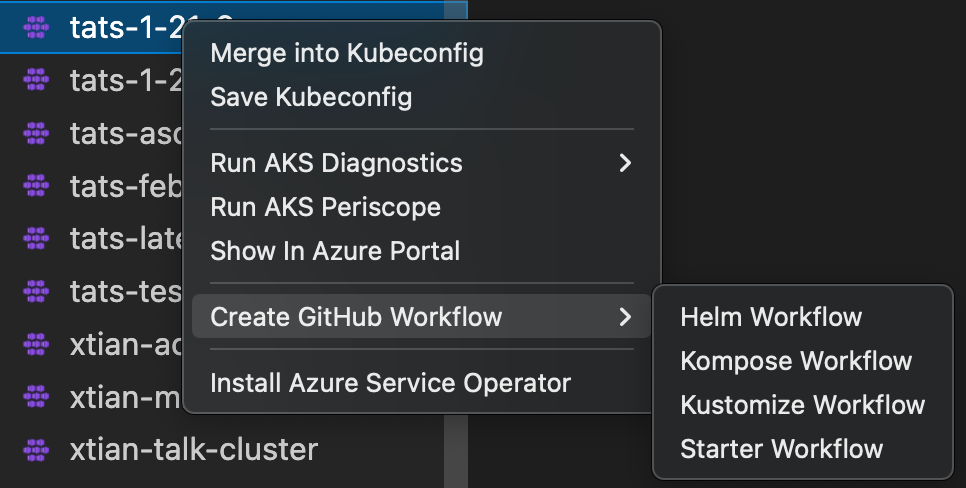
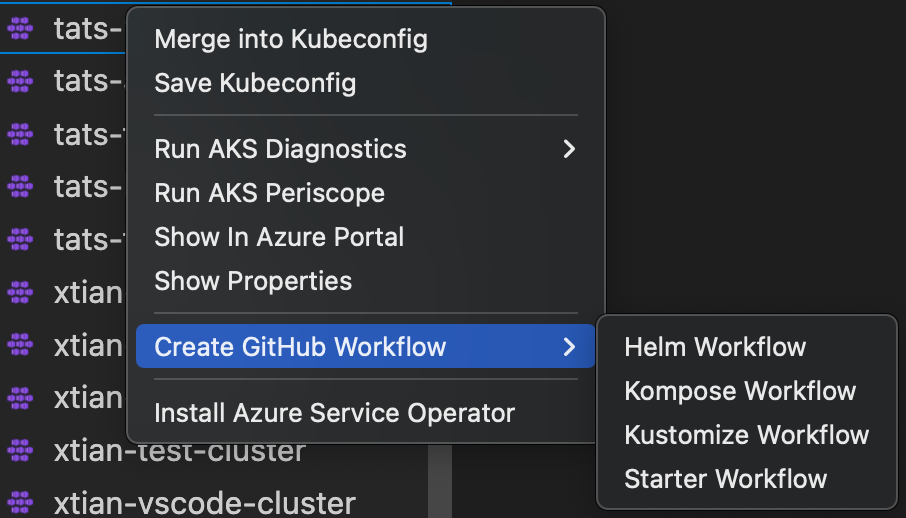
Publish 1.0.0 non-preview release.

Changed region(s): [[0.0, 0.0, 0.989, 1.0], [0.9581, 0.6148, 1.0, 0.9836], [0.6799, 0.9836, 0.9581, 1.0]]

diff --git a/README.md b/README.md
@@ -3,7 +3,7 @@
     <img src="https://vsmarketplacebadge.apphb.com/rating-star/ms-kubernetes-tools.vscode-aks-tools.svg">
 </a>
 
-# Azure Kubernetes Service (AKS) Extension for Visual Studio Code (Preview)
+# Azure Kubernetes Service (AKS) Extension for Visual Studio Code
 
 * View your AKS clusters in the Kubernetes extension cloud explorer
 * Add AKS clusters to kubeconfig
@@ -12,6 +12,7 @@
 * Install Azure Service Operator on your AKS cluster
 * Create GitHub Workflow from your AKS cluster
 * Show AKS cluster overview in Azure Portal
+* Show AKS cluster properties
 
 ## Installation
 
@@ -109,6 +110,10 @@ Right click on your AKS cluster and click on **Create GitHub Workflow** to easil
 ### Show in Azure Portal
 
 Right click on your AKS cluster and click on **Show in Azure Portal** to easily navigate to AKS cluster overview page in Azure Portal.
+
+### Show Properties
+
+Right click on your AKS cluster and click on **Show Properties** to display the AKS cluster and agent pool properties like provisioning state, fqdn, k8s version, alogn with node properties like node, version, vm type, o/s type, vm size and nodes provisioning state.
 
 ## Telemetry
 
